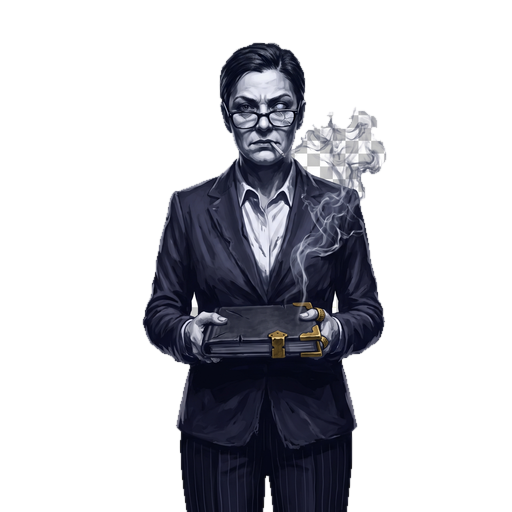
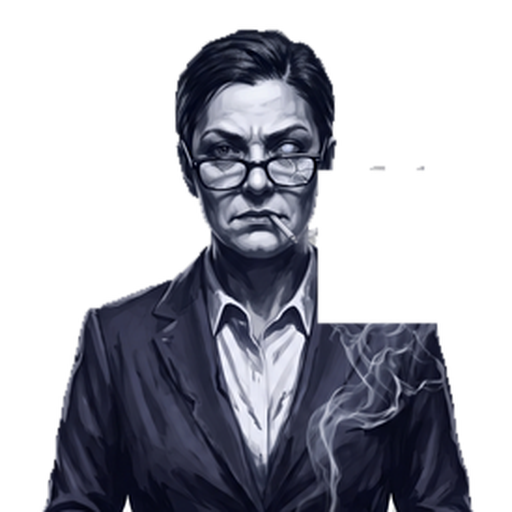
fix(art): re-key enemy portraits and re-frame them waist-up
The generator paints the transparency checkerboard into the pixels, so the shipped
portraits had to be keyed locally. The previous key matched colour proximity to the two
measured board levels; on the Appraiser and the Auditor the cigar smoke lands on exactly
those values (205/255), so it punched holes through the smoke and left a blocky white
blob. Colour cannot separate them. Reachability can: the board and the smoke touch the
image border, the subject's white shirt does not, so a bright neutral pixel is background
only when the border can reach it through other bright neutrals. The brightness floor is
derived per image from its own board levels -- a fixed one silently skipped the three
dark portraits entirely.

Two smoke wisps enclose board the flood cannot reach, and no colour rule finds it either
because this art is greyscale and "neutral" is true across every face. Those two blobs
sit in empty space and are erased by an explicit documented rectangle.

CombatRenderer fits enemy art to w=180, so a full-body 512 rendered as a 22px head: a
smudge. Each portrait is re-framed to a square whose side is the figure's own width,
which is self-tuning across poses. The Underwriter's armchair is wider than he is, so the
rule read furniture as body; he gets an explicit override framed on his head band.

Scripts kept under tools/art so the next batch is reproducible.

diff --git a/tools/art/dekey.py b/tools/art/dekey.py
@@ -1,0 +1,115 @@
+"""Strip the painted transparency checkerboard from a portrait and emit a real alpha channel.
+
+The generator answers "transparent background" with an opaque RGB image that has a neutral
+grey checkerboard painted into it, at two levels that differ per image (measured, never
+assumed).  An earlier version keyed by colour proximity to those two levels; that punched
+holes through cigar smoke, because the smoke's own pixels land on exactly the same values
+(205/255 on the Appraiser and the Auditor).  No colour rule can separate them.
+
+Topology can.  The checkerboard and the smoke both touch the image border; the subject's
+white shirt does not.  So a bright neutral pixel is background when it is REACHABLE from
+the border through other bright neutrals, and foreground when the figure encloses it.
+"""
+import os
+import sys
+from collections import Counter, deque
+
+from PIL import Image, ImageChops, ImageFilter
+
+
+def checker_levels(im):
+    """The two neutral levels painted along the border, low first."""
+    w, h = im.size
+    px = im.load()
+    c = Counter()
+    for x in range(0, w, 3):
+        for y in (1, 2, 3, h - 2, h - 3, h - 4):
+            v = px[x, y]
+            if max(v) - min(v) <= 4:
+                c[v[0]] += 1
+    return sorted(k for k, _ in c.most_common(4))
+
+
+def _flood(mask, size):
+    """Every mask pixel reachable from the image border, 4-connected."""
+    mp = mask.load()
+    out = Image.new("L", (size, size), 0)
+    op = out.load()
+    q = deque()
+    edge = [(x, y) for x in range(size) for y in (0, size - 1)]
+    edge += [(x, y) for y in range(size) for x in (0, size - 1)]
+    for x, y in edge:
+        if mp[x, y] and not op[x, y]:
+            op[x, y] = 255
+            q.append((x, y))
+    while q:
+        x, y = q.popleft()
+        for nx, ny in ((x+1, y), (x-1, y), (x, y+1), (x, y-1)):
+            if 0 <= nx < size and 0 <= ny < size and mp[nx, ny] and not op[nx, ny]:
+                op[nx, ny] = 255
+                q.append((nx, ny))
+    return out
+
+
+def _largest_component(alpha, size):
+    """The figure is one solid mass; anything opaque but detached from it is a remnant."""
+    ap = alpha.load()
+    seen = [[0] * size for _ in range(size)]
+    best = []
+    for sy in range(size):
+        for sx in range(size):
+            if ap[sx, sy] > 127 and not seen[sy][sx]:
+                comp, q = [], deque([(sx, sy)])
+                seen[sy][sx] = 1
+                while q:
+                    x, y = q.popleft()
+                    comp.append((x, y))
+                    for nx, ny in ((x+1, y), (x-1, y), (x, y+1), (x, y-1)):
+                        if 0 <= nx < size and 0 <= ny < size and ap[nx, ny] > 127 and not seen[ny][nx]:
+                            seen[ny][nx] = 1
+                            q.append((nx, ny))
+                if len(comp) > len(best):
+                    best = comp
+    keep = Image.new("L", (size, size), 0)
+    kp = keep.load()
+    for x, y in best:
+        kp[x, y] = 255
+    return keep, len(best)
+
+
+# Board trapped inside a cigar-smoke wisp: the wisp's own outline encloses it, so the
+# flood cannot reach it, and no colour rule can find it either -- this art is greyscale,
+# so "neutral" is true across every face.  These two blobs sit in empty space beside the
+# figure, measured off a coordinate grid, and are erased outright.  The clean smoke that
+# rises from the cigar is below them and is left alone.
+ERASE = {
+    "enemy_appraiser": (312, 18, 420, 118),
+    "enemy_auditor": (296, 118, 400, 200),
+}
+
+
+def key_portrait(src, out, size=512, spread=10, slack=12):
+    im = Image.open(src).convert("RGB")
+    levels = checker_levels(im)
+    floor = min(levels) - slack
+    r, g, b = im.split()
+    mx = ImageChops.lighter(ImageChops.lighter(r, g), b)
+    mn = ImageChops.darker(ImageChops.darker(r, g), b)
+    flat = ImageChops.subtract(mx, mn).point(lambda v: 255 if v <= spread else 0)
+    bright = im.convert("L").point(lambda v: 255 if v >= floor else 0)
+    cand = ImageChops.multiply(flat, bright).resize((size, size), Image.BOX) \
+                                            .point(lambda v: 255 if v > 150 else 0)
+    alpha = _flood(cand, size).point(lambda v: 0 if v else 255).filter(ImageFilter.MinFilter(3))
+    keep, n = _largest_component(alpha, size)
+    box = ERASE.get(os.path.basename(src)[:-4])
+    if box:
+        alpha.paste(0, box)
+    alpha = ImageChops.multiply(alpha, keep).filter(ImageFilter.GaussianBlur(0.6))
+    rgb = im.resize((size, size), Image.LANCZOS)
+    rgb.putalpha(alpha)
+    rgb.save(out)
+    print("%-13s floor=%3d opaque=%4.1f%%" % (os.path.basename(src)[6:-4], floor, 100 * n / (size * size)))
+
+
+if __name__ == "__main__":
+    key_portrait(sys.argv[1], sys.argv[2])

diff --git a/tools/art/waist.py b/tools/art/waist.py
@@ -1,0 +1,57 @@
+"""Re-frame a full-body portrait to waist-up.
+
+CombatRenderer fits the art to w=180 and the art is square, so a full-body 512 renders
+as a 180px figure whose head is about 22px: a smudge.  Cropping to a square whose side
+is the figure's OWN width is self-tuning -- a narrow standing figure yields head-to-hip,
+a broad one yields more torso -- and in both cases the subject fills the frame.
+
+The rule reads the alpha bounding box as "the body", so it breaks on a pose where a prop
+is wider than the person.  Those get an explicit override rather than a fudged constant,
+so the next person can see which assets are exceptions and why.
+"""
+import sys
+from PIL import Image
+
+# side (px in the 512 source) and horizontal centre, for figures whose bbox is not the body
+OVERRIDE = {
+    # Seated in an armchair: the chair widens the bbox by ~100px, so the rule barely crops
+    # and leaves him small and off-centre.  Framed on the head band instead, which also
+    # drops most of the chair -- the prompt asked for no furniture in the first place.
+    "underwriter": (300, None),
+}
+
+
+def head_centre(alpha, bbox, frac=0.30):
+    ap, lo, hi = alpha.load(), 10**9, -1
+    for y in range(bbox[1], bbox[1] + int((bbox[3]-bbox[1]) * frac)):
+        for x in range(bbox[0], bbox[2]):
+            if ap[x, y] > 40:
+                lo = min(lo, x); break
+        for x in range(bbox[2]-1, bbox[0]-1, -1):
+            if ap[x, y] > 40:
+                hi = max(hi, x); break
+    return (lo + hi) // 2
+
+
+def waist_up(path, out, key, margin=0.06):
+    im = Image.open(path).convert("RGBA")
+    a = im.getchannel("A")
+    b = a.getbbox()
+    fw, fh = b[2]-b[0], b[3]-b[1]
+    if key in OVERRIDE:
+        side, cx = OVERRIDE[key]
+        cx = cx if cx is not None else head_centre(a, b)
+        top = b[1] - int(side * margin)
+    else:
+        side = int(fw * (1 + 2*margin))
+        cx, top = (b[0] + b[2]) // 2, b[1] - int(fw * margin)
+    left = cx - side // 2
+    canvas = Image.new("RGBA", (side, side), (0, 0, 0, 0))
+    canvas.paste(im.crop((left, top, left+side, top+side)), (0, 0))
+    canvas.resize((512, 512), Image.LANCZOS).save(out)
+    print("%-13s side=%3d (%d%% of the figure) centre=%d%s"
+          % (key, side, round(100*side/fh), cx, "  [override]" if key in OVERRIDE else ""))
+
+
+if __name__ == "__main__":
+    waist_up(sys.argv[1], sys.argv[2], sys.argv[3])
